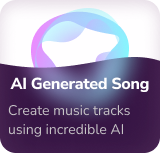
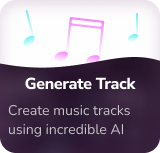
generate AI is done

diff --git a/src/screens/Home/GenerateTrack/GenerateTrack.tsx b/src/screens/Home/GenerateTrack/GenerateTrack.tsx
@@ -1,0 +1,108 @@
+import {
+  View,
+  Text,
+  ImageBackground,
+  TouchableOpacity,
+  ScrollView,
+  TextInput,
+  Modal,
+  Alert,
+} from 'react-native';
+import React, {useState} from 'react';
+import {heightPercentageToDP} from 'react-native-responsive-screen';
+import {Images} from '../../../constant/Images';
+import {SafeAreaView} from 'react-native-safe-area-context';
+import MaterialIcons from 'react-native-vector-icons/MaterialIcons';
+import {Picker} from '@react-native-picker/picker';
+const GenerateTrack = ({navigation}: any) => {
+  const [MusicGenre, setMusicGenre] = useState('pop');
+  const [isModalVisible, setIsModalVisible] = useState(false);
+  return (
+    <ImageBackground
+      style={{height: heightPercentageToDP('100%')}}
+      source={Images.BG_1}>
+      <SafeAreaView
+        className="h-full "
+        edges={['right', 'left', 'top', 'bottom']}>
+        {/* // Search Box */}
+        <View className="flex flex-row items-center justify-between px-4">
+          <TouchableOpacity className="" onPress={() => navigation.goBack(' ')}>
+            <MaterialIcons color="white" name="keyboard-arrow-left" size={42} />
+          </TouchableOpacity>
+          <Text className="text-2xl font-semibold text-center text-white ">
+            Generate Track
+          </Text>
+
+          <TouchableOpacity className="">
+            <MaterialIcons color="white" name="close" size={32} />
+          </TouchableOpacity>
+        </View>
+        <ScrollView className="flex-1 px-4 gap-y-4 ">
+          <View className="gap-y-2">
+            <Text className="text-lg font-semibold text-white">
+              1. Select music genre
+            </Text>
+            <TouchableOpacity
+              className="w-full py-3   bg-[#FFFFFF1A]   rounded-md   items-left    leading-2 px-5"
+              onPress={() => {
+                setIsModalVisible(true);
+              }}>
+              <Text className="text-xl  text-left font-medium text-[#C6C3C6] ">
+                {MusicGenre}
+              </Text>
+            </TouchableOpacity>
+            <Modal
+              animationType="slide"
+              transparent={true}
+              visible={isModalVisible}>
+              <View
+                style={{
+                  backgroundColor: '#190D1A',
+                  position: 'absolute',
+                  width: '100%',
+                  bottom: 0,
+                }}>
+                <Picker
+                  selectedValue={MusicGenre}
+                  onValueChange={(itemValue, itemIndex) => {
+                    setMusicGenre(itemValue);
+                    setIsModalVisible(false);
+                  }}>
+                  <Picker.Item color="white" label="Pop" value="pop" />
+                  <Picker.Item color="white" label="Rock" value="rock" />
+                  <Picker.Item color="white" label="Jazz" value="jazz" />
+                  <Picker.Item color="white" label="Bass" value="bass" />
+                </Picker>
+              </View>
+            </Modal>
+          </View>
+          <View className=" gap-y-2">
+            <Text className="text-lg font-semibold text-white">
+              2. Describe your track
+            </Text>
+            <TextInput
+              placeholder="Relaxing video background track..."
+              numberOfLines={4}
+              multiline
+              className="w-full py-3 text-xl font-medium h-[200]  bg-[#FFFFFF1A]   text-[#C6C3C6] rounded-md  items-center leading-2 px-5"
+              placeholderTextColor="#C6C3C6"
+            />
+          </View>
+          <View className="gap-y-2">
+            <Text className="text-lg font-semibold text-white">
+              3. Enter duration
+            </Text>
+            <TextInput
+              placeholder="00:25"
+              keyboardType="numeric"
+              className="w-full py-3 text-xl font-medium  bg-[#FFFFFF1A] text-[#C6C3C6] rounded-md  items-center leading-2 px-5"
+              placeholderTextColor="#C6C3C6"
+            />
+          </View>
+        </ScrollView>
+      </SafeAreaView>
+    </ImageBackground>
+  );
+};
+
+export default GenerateTrack;

diff --git a/src/screens/Home/Record/AlbumCover.tsx b/src/screens/Home/Record/AlbumCover.tsx
@@ -1,0 +1,99 @@
+import {
+  View,
+  Text,
+  TouchableOpacity,
+  ImageBackground,
+  Alert,
+  TextInput,
+  Image,
+} from 'react-native';
+import React, {useState} from 'react';
+import {heightPercentageToDP} from 'react-native-responsive-screen';
+import {Images} from '../../../constant/Images';
+import {SafeAreaView} from 'react-native-safe-area-context';
+import MaterialIcons from 'react-native-vector-icons/MaterialIcons';
+import Loading from '../../../components/Loading';
+const AlbumCover = ({navigation}: any) => {
+  const [Album, setAlbum] = useState('');
+  return (
+    <ImageBackground
+      style={{height: heightPercentageToDP('100%')}}
+      source={Images.BG_1}>
+      <SafeAreaView
+        className="h-full "
+        edges={['right', 'left', 'top', 'bottom']}>
+        {/* // Search Box */}
+        <View className="flex flex-row items-center justify-between px-4">
+          <TouchableOpacity className="" onPress={() => navigation.goBack(' ')}>
+            <MaterialIcons color="white" name="keyboard-arrow-left" size={42} />
+          </TouchableOpacity>
+          <Text className="text-2xl font-semibold text-center text-white ">
+            Album Cover
+          </Text>
+
+          <TouchableOpacity className="">
+            <MaterialIcons color="white" name="close" size={32} />
+          </TouchableOpacity>
+        </View>
+
+        <View className="flex-1 p-4">
+          <View className="flex-1 h-full gap-y-4">
+            <Text className="text-[#C6C3C6] text-lg text-left font-medium ">
+              Describe your album cover
+            </Text>
+            <TextInput
+              onChangeText={(text: any) => {
+                console.log(text);
+                setAlbum(text);
+              }}
+              multiline={true}
+              numberOfLines={5}
+              placeholder="Two clasped hands on a red base..."
+              className="w-full py-3 text-xl font-medium min-h-[40%] bg-[#FFFFFF1A] text-white rounded-2xl  items-center leading-2  mb-5 px-5"
+              placeholderTextColor="#FFFFFF5A"
+            />
+          </View>
+        </View>
+        <View className="px-4 gap-y-3">
+          <TouchableOpacity
+            className=""
+            activeOpacity={0.7}
+            onPress={() => Alert.alert(Album)}>
+            <View className={'py-4 bg-[#F780FB] rounded-full'}>
+              <Text className="text-xl font-semibold text-center text-black">
+                Generate Album Cover
+              </Text>
+            </View>
+          </TouchableOpacity>
+          {/* // Separation  */}
+          <View
+            style={{
+              flexDirection: 'row',
+              alignItems: 'center',
+              justifyContent: 'space-between',
+            }}>
+            <View
+              style={{flex: 1, borderBottomWidth: 1, borderColor: 'white'}}
+            />
+            <Text className="mx-5 text-lg text-white">Can't you decide?</Text>
+            <View
+              style={{flex: 1, borderBottomWidth: 1, borderColor: 'white'}}
+            />
+          </View>
+          <TouchableOpacity
+            className=""
+            activeOpacity={0.7}
+            onPress={() => Alert.alert(Album)}>
+            <View className={'py-4 bg-[#6BF0F2] rounded-full'}>
+              <Text className="text-xl font-semibold text-center text-black">
+                Surprise Me
+              </Text>
+            </View>
+          </TouchableOpacity>
+        </View>
+      </SafeAreaView>
+    </ImageBackground>
+  );
+};
+
+export default AlbumCover;

diff --git a/src/screens/Home/CreateProject.tsx b/src/screens/Home/CreateProject.tsx
@@ -5,19 +5,21 @@ import {
   Image,
   TouchableOpacity,
 } from 'react-native';
-import React from 'react';
+import React, {useState} from 'react';
 import {Images} from '../../constant/Images';
 import {SafeAreaView} from 'react-native-safe-area-context';
 import {heightPercentageToDP} from 'react-native-responsive-screen';
 
 const CreateProject = ({navigation}: any) => {
+  const [isCreateProject, setIsCreateProject] = useState(true);
   return (
     <ImageBackground
       style={{height: heightPercentageToDP('100%')}}
       source={Images.BG_1}>
       <SafeAreaView className="h-full px-3">
         <View className="flex flex-row justify-end ">
-          <TouchableOpacity onPress={() => navigation.navigate('Setting')}>
+          <TouchableOpacity
+            onPress={() => navigation.navigate('GenerateTrack')}>
             <Image
               source={Images.USER_PROFILE}
               className=""
@@ -25,31 +27,63 @@ const CreateProject = ({navigation}: any) => {
             />
           </TouchableOpacity>
         </View>
-        <View className="items-center py-[30%] gap-3 flex-1 ">
-          <TouchableOpacity
-            className="w-full"
-            activeOpacity={0.7}
-            onPress={() => navigation.navigate('SongList')}>
-            <Image
-              source={Images.CREATE_PROJECT}
-              className="w-full "
-              resizeMode="contain"
+
+        <View className="items-center py-[30%] gap-3 flex-1  ">
+          {isCreateProject ? (
+            <>
+              <TouchableOpacity
+                className="w-full"
+                activeOpacity={0.7}
+                onPress={() => {
+                  setIsCreateProject(false);
+                }}>
+                <Image
+                  source={Images.CREATE_PROJECT}
+                  className="w-full "
+                  resizeMode="contain"
+                />
+              </TouchableOpacity>
+              <TouchableOpacity
+                className="w-full"
+                activeOpacity={0.7}
+                onPress={() => navigation.navigate('MySongList')}>
+                <Image
+                  source={Images.LOADING_PROJECT}
+                  className="w-full"
+                  resizeMode="contain"
+                />
+              </TouchableOpacity>
+            </>
+          ) : (
+            <CreateProjectOption
+              setIsCreateProject={setIsCreateProject}
+              navigation={navigation}
             />
-          </TouchableOpacity>
-          <TouchableOpacity
-            className="w-full"
-            activeOpacity={0.7}
-            onPress={() => navigation.navigate('MySongList')}>
-            <Image
-              source={Images.LOADING_PROJECT}
-              className="w-full"
-              resizeMode="contain"
-            />
-          </TouchableOpacity>
+          )}
         </View>
       </SafeAreaView>
     </ImageBackground>
   );
 };
 
+function CreateProjectOption({navigation, setIsCreateProject}: any) {
+  return (
+    <>
+      <View className="flex flex-row items-center gap-x-10 ">
+        <TouchableOpacity
+          onPress={() => {
+            navigation.navigate('GenerateTrack');
+          }}>
+          <Image source={Images.AI_GENERATED_SONG} />
+        </TouchableOpacity>
+        <TouchableOpacity
+          onPress={() => {
+            navigation.navigate('SongList');
+          }}>
+          <Image source={Images.REMIX_A_SONG} />
+        </TouchableOpacity>
+      </View>
+    </>
+  );
+}
 export default CreateProject;

diff --git a/src/navigation/StackNavigation.tsx b/src/navigation/StackNavigation.tsx
@@ -15,6 +15,8 @@ import SelectRecording from '../screens/Home/Record/SelectRecording';
 import SongNameEdit from '../screens/Home/Record/SongNameEdit';
 import LyricsPlayer from '../screens/Home/CustomLyrics/LyricsPlayer';
 import CustomLyrics from '../screens/Home/CustomLyrics/CustomLyrics';
+import AlbumCover from '../screens/Home/Record/AlbumCover';
+import GenerateTrack from '../screens/Home/GenerateTrack/GenerateTrack';
 
 function StackNavigation() {
   const Stack = createStackNavigator();
@@ -90,6 +92,16 @@ function StackNavigation() {
         options={{headerShown: false}}
         name="SongNameEdit"
         component={SongNameEdit}
+      />
+      <Stack.Screen
+        options={{headerShown: false}}
+        name="AlbumCover"
+        component={AlbumCover}
+      />
+      <Stack.Screen
+        options={{headerShown: false}}
+        name="GenerateTrack"
+        component={GenerateTrack}
       />
     </Stack.Navigator>
   );

diff --git a/src/screens/Home/Record/SongNameEdit.tsx b/src/screens/Home/Record/SongNameEdit.tsx
@@ -3,9 +3,7 @@ import {
   Text,
   TouchableOpacity,
   ImageBackground,
-  Alert,
   TextInput,
-  Image,
 } from 'react-native';
 import React, {useState} from 'react';
 import {heightPercentageToDP} from 'react-native-responsive-screen';
@@ -55,8 +53,8 @@ const SongNameEdit = ({navigation}: any) => {
         <TouchableOpacity
           className="px-4 "
           activeOpacity={0.7}
-          onPress={() => Alert.alert(Name)}>
-          <View className={`py-4 bg-[#F780FB] rounded-full `}>
+          onPress={() => navigation.navigate('AlbumCover')}>
+          <View className={'py-4 bg-[#F780FB] rounded-full'}>
             <Text className="text-xl font-semibold text-center text-black">
               Continue to Album Cover
             </Text>
